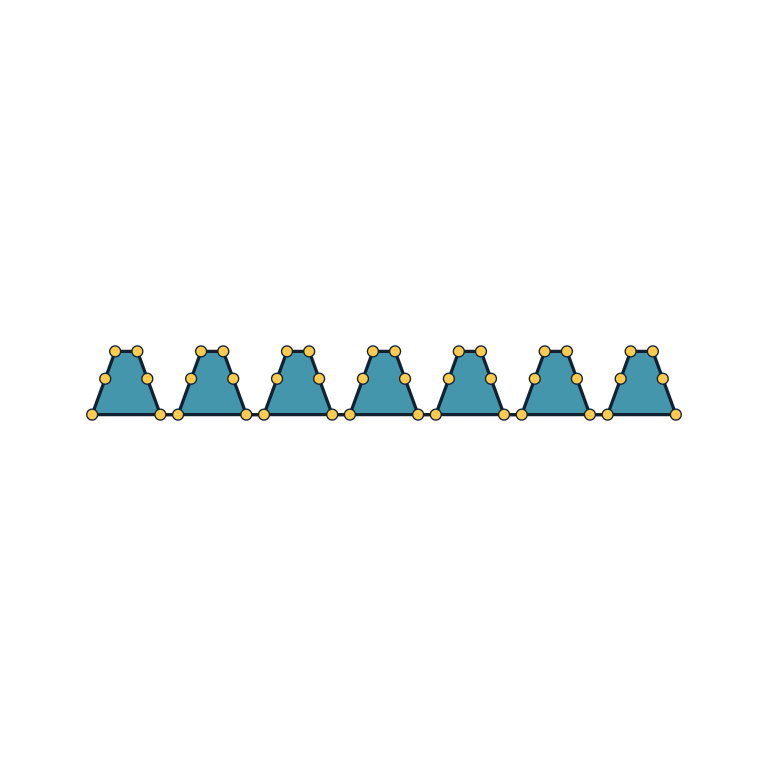
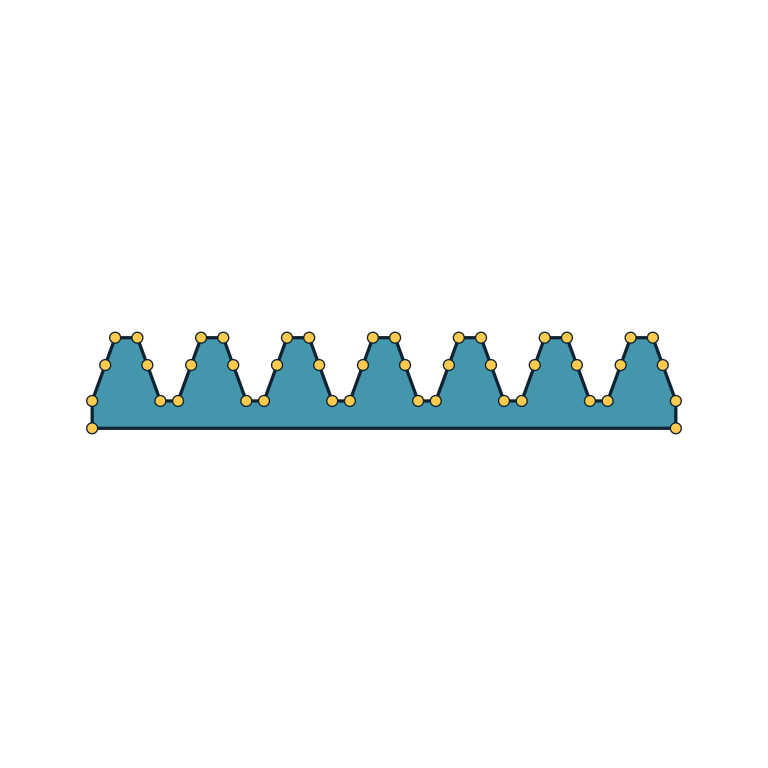
Fix cycloidal gear and rack profiles

Changed region(s): [[0.0938, 0.4375, 0.9062, 0.5625]]

diff --git a/src/curve/native.rs b/src/curve/native.rs
@@ -889,6 +889,9 @@ pub fn involute_gear(
 }
 
 /// Cycloidal gear region.
+///
+/// Returns an empty region when the requested first-lobe flanks would meet or
+/// cross before reaching the addendum circle or the neighboring root gap.
 pub fn cycloidal_gear(
     module: Real,
     teeth: usize,
@@ -930,7 +933,8 @@ pub fn involute_rack(
     {
         return empty();
     }
-    let Some(point_capacity) = teeth.checked_mul(6) else {
+    let Some(point_capacity) = teeth.checked_mul(6).and_then(|count| count.checked_add(2))
+    else {
         return empty();
     };
     let pressure_angle = (pressure_angle_degrees * Real::pi() / Real::from(180_u16))
@@ -979,6 +983,11 @@ pub fn involute_rack(
             points.push([next_left - root_slant.clone(), root.clone()]);
         }
     }
+    let left = points.first().expect("validated rack has a left root")[0].clone();
+    let right = points.last().expect("validated rack has a right root")[0].clone();
+    let backing = root - module;
+    points.push([right, backing.clone()]);
+    points.push([left, backing]);
     region_from_ring(&points)
 }
 
@@ -999,7 +1008,8 @@ pub fn cycloidal_rack(
     let half = (Real::one() / Real::from(2_u8)).expect("two is nonzero");
     let generating_radius = module.clone() * half.clone();
     let pitch = Real::pi() * module.clone();
-    let root = -(module * (Real::from(5_u8) / Real::from(4_u8)).expect("four is nonzero")
+    let root = -(module.clone()
+        * (Real::from(5_u8) / Real::from(4_u8)).expect("four is nonzero")
         + clearance);
     let left = -half.clone() * pitch.clone();
     let right = (Real::from(teeth as u64) - half.clone()) * pitch.clone();
@@ -1033,13 +1043,16 @@ pub fn cycloidal_rack(
             top.push([tooth_left.clone() + point[0].clone(), point[1].clone()]);
         }
     }
-    let Some(point_capacity) = top.len().checked_add(2) else {
+    let Some(point_capacity) = top.len().checked_add(4) else {
         return empty();
     };
     let mut points = Vec::with_capacity(point_capacity);
-    points.push([left, root.clone()]);
-    points.push([right, root]);
+    let backing = root.clone() - module;
+    points.push([left.clone(), backing.clone()]);
+    points.push([right.clone(), backing]);
+    points.push([right, root.clone()]);
     points.extend(top.into_iter().rev());
+    points.push([left, root]);
     region_from_ring(&points)
 }
 
@@ -1308,8 +1321,8 @@ fn sampled_cycloidal_gear(
         let angular_pitch = (Real::tau() / Real::from(teeth as u64)).ok()?;
         let pitch_half_thickness = (angular_pitch.clone() / Real::from(4_u8)).ok()?;
         let epicycloid = |parameter: Real| {
-            let carrier = parameter.clone() + pitch_half_thickness.clone();
-            let rolling = epicycle_ratio.clone() * parameter + pitch_half_thickness.clone();
+            let carrier = parameter.clone();
+            let rolling = epicycle_ratio.clone() * parameter;
             [
                 epicycle_radius.clone() * carrier.clone().cos()
                     - generating_radius.clone() * rolling.clone().cos(),
@@ -1318,8 +1331,8 @@ fn sampled_cycloidal_gear(
             ]
         };
         let hypocycloid = |parameter: Real| {
-            let carrier = parameter.clone() + pitch_half_thickness.clone();
-            let rolling = hypocycle_ratio.clone() * parameter - pitch_half_thickness.clone();
+            let carrier = parameter.clone();
+            let rolling = hypocycle_ratio.clone() * parameter;
             [
                 hypocycle_radius.clone() * carrier.clone().cos()
                     + generating_radius.clone() * rolling.clone().cos(),
@@ -1333,24 +1346,54 @@ fn sampled_cycloidal_gear(
         for sample in 0..=segments_per_flank {
             let fraction = exact_ratio(sample, segments_per_flank)?;
             epi.push(epicycloid(tip_parameter.clone() * fraction.clone()));
-            hypo.push(hypocycloid(root_parameter.clone() * fraction));
+            hypo.push(hypocycloid(-(root_parameter.clone() * fraction)));
         }
-        let tip_argument = (-generating_radius.clone() * tip_phase.clone().sin())
-            .atan2(epicycle_radius.clone() - generating_radius.clone() * tip_phase.cos());
-        let root_argument = (-generating_radius.clone() * root_phase.clone().sin())
-            .atan2(hypocycle_radius.clone() + generating_radius.clone() * root_phase.cos());
-        let right_tip = -(tip_parameter + tip_argument + pitch_half_thickness.clone());
-        let right_root = -(root_parameter + root_argument + pitch_half_thickness.clone());
-        let left_tip = -right_tip.clone();
-        let left_root = -right_root.clone();
-        if real_cmp(&right_tip, &left_tip)? != Ordering::Less
-            || real_cmp(&right_root, &left_root)? != Ordering::Less
+
+        let limit_sine = pitch_half_thickness.clone().sin();
+        let limit_cosine = pitch_half_thickness.clone().cos();
+        let precedes_tooth_bisector = |[x, y]: &[Real; 2]| {
+            real_cmp(
+                &(y.clone() * limit_cosine.clone() - x.clone() * limit_sine.clone()),
+                &Real::zero(),
+            ) == Some(Ordering::Less)
+        };
+        let negative_root_endpoint = hypo.last()?;
+        let positive_root_endpoint = [
+            negative_root_endpoint[0].clone(),
+            -negative_root_endpoint[1].clone(),
+        ];
+        if !precedes_tooth_bisector(epi.last()?)
+            || !precedes_tooth_bisector(&positive_root_endpoint)
         {
             return None;
         }
-        let mut tooth = Vec::with_capacity(segments_per_flank.checked_mul(6)?);
-        tooth.extend(hypo.iter().rev().map(|[x, y]| [x.clone(), -y.clone()]));
-        tooth.extend(epi.iter().skip(1).map(|[x, y]| [x.clone(), -y.clone()]));
+
+        let flank_rotation = -pitch_half_thickness;
+        let flank_sine = flank_rotation.clone().sin();
+        let flank_cosine = flank_rotation.cos();
+        let rotate = |[x, y]: &[Real; 2]| {
+            [
+                x.clone() * flank_cosine.clone() - y.clone() * flank_sine.clone(),
+                x.clone() * flank_sine.clone() + y.clone() * flank_cosine.clone(),
+            ]
+        };
+        let right_epi = epi.iter().map(rotate).collect::<Vec<_>>();
+        let right_hypo = hypo.iter().map(rotate).collect::<Vec<_>>();
+        let right_tip_point = right_epi.last()?;
+        let right_root_point = right_hypo.last()?;
+        let right_tip = right_tip_point[1].clone().atan2(right_tip_point[0].clone());
+        let right_root = right_root_point[1].clone().atan2(right_root_point[0].clone());
+        let left_tip = -right_tip.clone();
+        let left_root = -right_root.clone();
+        let next_right_root = angular_pitch.clone() + right_root.clone();
+        let mut tooth = Vec::with_capacity(segments_per_flank.checked_mul(6)?.checked_add(2)?);
+        let has_root_transition =
+            real_cmp(&flank_root_radius, &root_radius)? == Ordering::Greater;
+        if has_root_transition {
+            tooth.push(exact_polar(&root_radius, right_root.clone()));
+        }
+        tooth.extend(right_hypo.iter().rev().cloned());
+        tooth.extend(right_epi.iter().skip(1).cloned());
         for sample in 1..=segments_per_flank {
             let fraction = exact_ratio(sample, segments_per_flank)?;
             tooth.push(exact_polar(
@@ -1358,9 +1401,21 @@ fn sampled_cycloidal_gear(
                 right_tip.clone() + fraction * (left_tip.clone() - right_tip.clone()),
             ));
         }
-        tooth.extend(epi[..segments_per_flank].iter().rev().cloned());
-        tooth.extend(hypo.iter().skip(1).cloned());
-        let next_right_root = angular_pitch + right_root;
+        tooth.extend(
+            right_epi[..segments_per_flank]
+                .iter()
+                .rev()
+                .map(|[x, y]| [x.clone(), -y.clone()]),
+        );
+        tooth.extend(
+            right_hypo
+                .iter()
+                .skip(1)
+                .map(|[x, y]| [x.clone(), -y.clone()]),
+        );
+        if has_root_transition {
+            tooth.push(exact_polar(&root_radius, left_root.clone()));
+        }
         for sample in 1..segments_per_flank {
             let fraction = exact_ratio(sample, segments_per_flank)?;
             tooth.push(exact_polar(
@@ -2969,14 +3024,14 @@ mod tests {
         assert!(!involute_25.is_empty());
         assert_ne!(involute_20, involute_25);
 
-        let cycloidal_a = cycloidal_gear(
+        let cycloidal_a = cycloidal_gear(Real::one(), 16, Real::one(), Real::zero(), 4);
+        let cycloidal_b = cycloidal_gear(
             Real::one(),
             16,
-            (Real::from(3_u8) / Real::from(4_u8)).unwrap(),
+            (Real::from(5_u8) / Real::from(4_u8)).unwrap(),
             Real::zero(),
             4,
         );
-        let cycloidal_b = cycloidal_gear(Real::one(), 16, Real::one(), Real::zero(), 4);
         assert!(!cycloidal_a.is_empty());
         assert!(!cycloidal_b.is_empty());
         assert_ne!(cycloidal_a, cycloidal_b);
@@ -3005,6 +3060,98 @@ mod tests {
         assert!(!symmetric.is_empty());
         assert!(!cambered.is_empty());
         assert_ne!(symmetric, cambered);
+    }
+
+    #[test]
+    fn gear_and_rack_profiles_form_one_hole_free_material_component() {
+        let cycloidal = cycloidal_gear(
+            Real::one(),
+            16,
+            (Real::from(5_u8) / Real::from(4_u8)).unwrap(),
+            Real::zero(),
+            8,
+        );
+        let involute =
+            involute_rack(Real::one(), 6, Real::from(20_u8), Real::zero(), Real::zero());
+        let cycloidal_rack_profile = cycloidal_rack(Real::one(), 6, Real::zero(), 12);
+        let readme_cycloidal = cycloidal_gear(
+            Real::try_from(0.22).unwrap(),
+            14,
+            Real::try_from(0.275).unwrap(),
+            Real::try_from(0.02).unwrap(),
+            8,
+        );
+        assert!(
+            cycloidal_gear(
+                Real::one(),
+                16,
+                (Real::from(3_u8) / Real::from(4_u8)).unwrap(),
+                Real::zero(),
+                8,
+            )
+            .is_empty(),
+            "overlapping neighboring cycloidal root flanks must be rejected"
+        );
+        let projection =
+            FiniteProjectionOptions::try_new(1.0e-3).expect("positive projection tolerance");
+
+        for (name, region) in [
+            ("cycloidal gear", cycloidal),
+            ("README cycloidal gear", readme_cycloidal),
+            ("involute rack", involute),
+            ("cycloidal rack", cycloidal_rack_profile),
+        ] {
+            let profiles = match region
+                .project_to_finite_profiles_exact(&projection, &CurvePolicy::STRICT)
+                .unwrap_or_else(|error| panic!("{name} profile projection failed: {error}"))
+            {
+                Classification::Decided(profiles) => profiles,
+                Classification::Uncertain(reason) => {
+                    panic!("{name} profile topology is uncertain: {reason:?}")
+                },
+            };
+            assert_eq!(
+                profiles.len(),
+                1,
+                "{name} must be one connected material component"
+            );
+            assert!(
+                profiles[0].holes().is_empty(),
+                "{name} must not acquire holes from a self-intersecting boundary"
+            );
+            let paths = match region
+                .project_to_finite_curve_paths(&CurvePolicy::STRICT)
+                .unwrap_or_else(|error| panic!("{name} edge projection failed: {error}"))
+            {
+                Classification::Decided(paths) => paths,
+                Classification::Uncertain(reason) => {
+                    panic!("{name} edge topology is uncertain: {reason:?}")
+                },
+            };
+            assert_eq!(
+                paths.len(),
+                1,
+                "{name} must expose one simple closed edge path"
+            );
+        }
+
+        for (name, rack) in [
+            (
+                "involute rack",
+                involute_rack(Real::one(), 6, Real::from(20_u8), Real::zero(), Real::zero()),
+            ),
+            (
+                "cycloidal rack",
+                cycloidal_rack(Real::one(), 6, Real::zero(), 12),
+            ),
+        ] {
+            let bounds = try_bounding_box(&rack)
+                .unwrap_or_else(|error| panic!("{name} bounds failed: {error}"));
+            assert!(
+                bounds.mins.y < -Real::one(),
+                "{name} must include backing below its tooth-root line"
+            );
+        }
     }
 
     #[test]
@@ -3160,7 +3307,7 @@ mod tests {
                 Real::zero(),
                 4,
             ),
-            cycloidal_gear(one.clone(), 16, three_quarters, Real::zero(), 4),
+            cycloidal_gear(one.clone(), 16, one.clone(), Real::zero(), 4),
             involute_rack(one.clone(), 4, Real::from(20_u8), Real::zero(), Real::zero()),
             cycloidal_rack(one.clone(), 4, Real::zero(), 8),
             airfoil_naca4(Real::from(2_u8), Real::from(4_u8), Real::from(12_u8), one, 20),

diff --git a/examples/readme_renders.rs b/examples/readme_renders.rs
@@ -5,9 +5,8 @@
 
 use csgrs::solid::MetaBall;
 use csgrs::{
-    curve,
+    GeometryContext, TriangleMesh, curve,
     solid::{self, SolidExt},
-    GeometryContext, TriangleMesh,
 };
 use hypercurve::{
     Classification, CurvePath2, CurvePolicy, CurveRegion2, CurveString2,
@@ -130,7 +129,7 @@ fn render_readme_curves() {
     );
     render_curve(
         "cycloidal_gear",
-        &curve::cycloidal_gear(r(0.22), 14, r(0.11), r(0.02), 8),
+        &curve::cycloidal_gear(r(0.22), 14, r(0.275), r(0.02), 8),
     );
     render_curve(
         "involute_rack",
@@ -273,7 +272,7 @@ fn render_readme_meshes() {
         &solid::spur_gear_cycloid(
             r(0.22),
             14,
-            r(0.11),
+            r(0.275),
             r(0.02),
             8,
             r(0.5),

diff --git a/benchmarks/rust/profile_primitives.rs b/benchmarks/rust/profile_primitives.rs
@@ -198,7 +198,7 @@ fn main() {
         )
     });
     run_profile(&config, "cycloidal_gear", 1, || {
-        curve::cycloidal_gear(Real::from(2), 12, Real::from(1), Real::zero(), 4)
+        curve::cycloidal_gear(Real::from(2), 12, Real::from(2), Real::zero(), 4)
     });
     run_profile(&config, "involute_rack", 2, || {
         curve::involute_rack(Real::from(2), 4, Real::from(20), Real::zero(), Real::zero())

diff --git a/benchmarks/rust/feature_pipeline.rs b/benchmarks/rust/feature_pipeline.rs
@@ -125,7 +125,7 @@ fn main() {
             .expect("involute extrusion")
             .into_value(),
             curve::try_extrude(
-                &curve::cycloidal_gear(Real::from(2), 12, Real::from(1), Real::zero(), 4),
+                &curve::cycloidal_gear(Real::from(2), 12, Real::from(2), Real::zero(), 4),
                 Real::from(2),
                 &GeometryContext::STRICT,
             )

diff --git a/src/solid.rs b/src/solid.rs
@@ -2328,7 +2328,7 @@ mod tests {
                 spur_gear_cycloid(
                     one.clone(),
                     16,
-                    (Real::from(3_u8) / Real::from(4_u8)).unwrap(),
+                    Real::one(),
                     Real::zero(),
                     3,
                     one.clone(),
